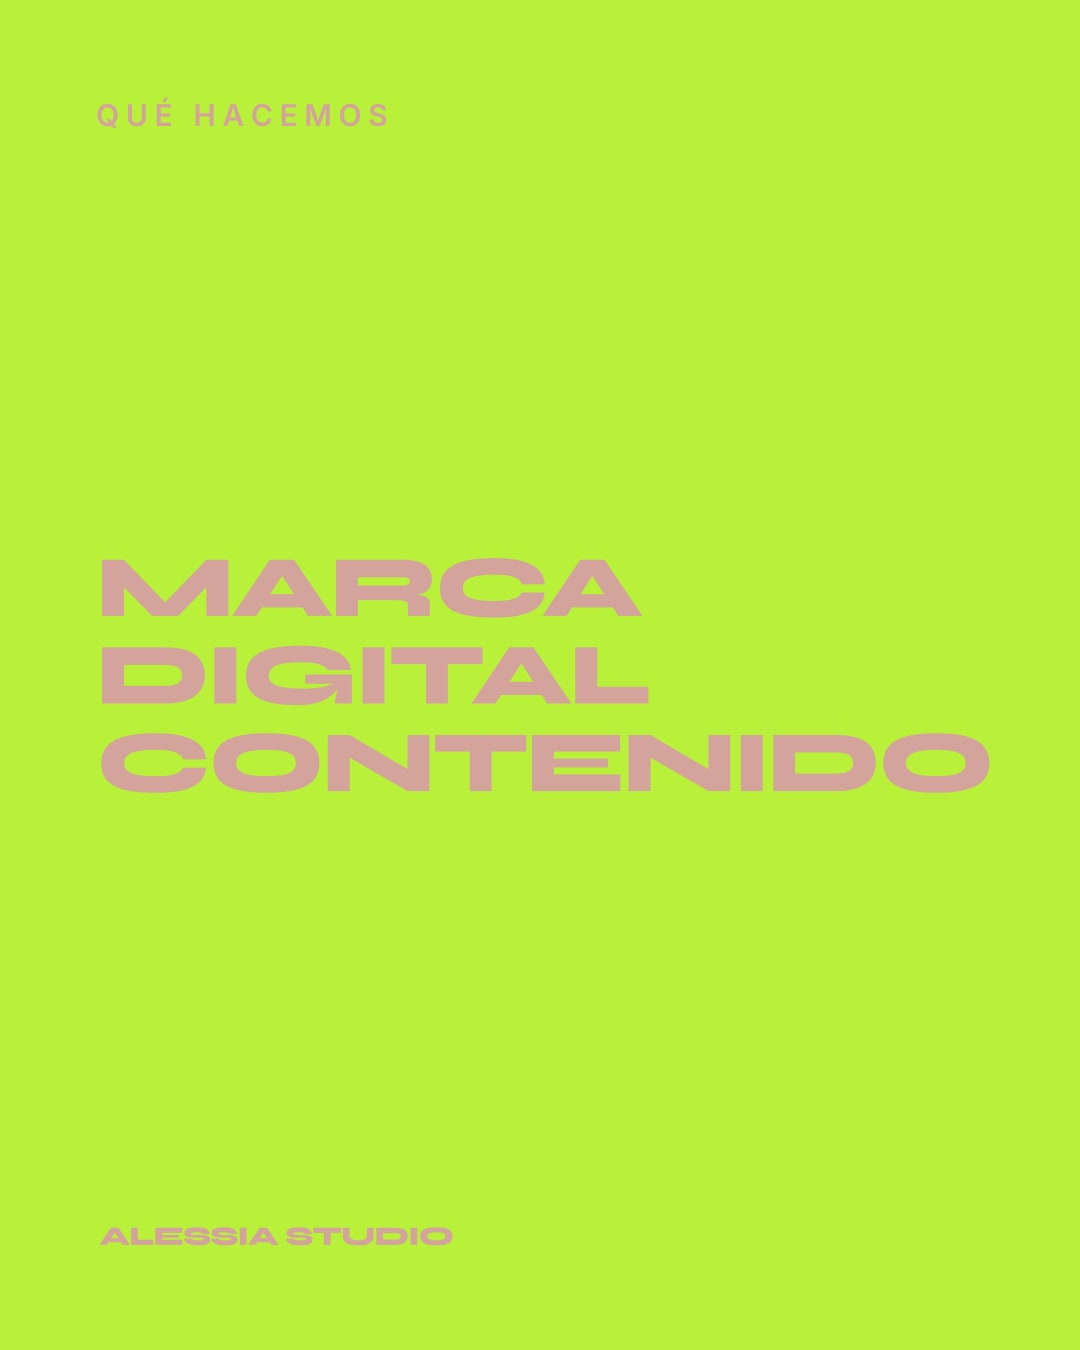
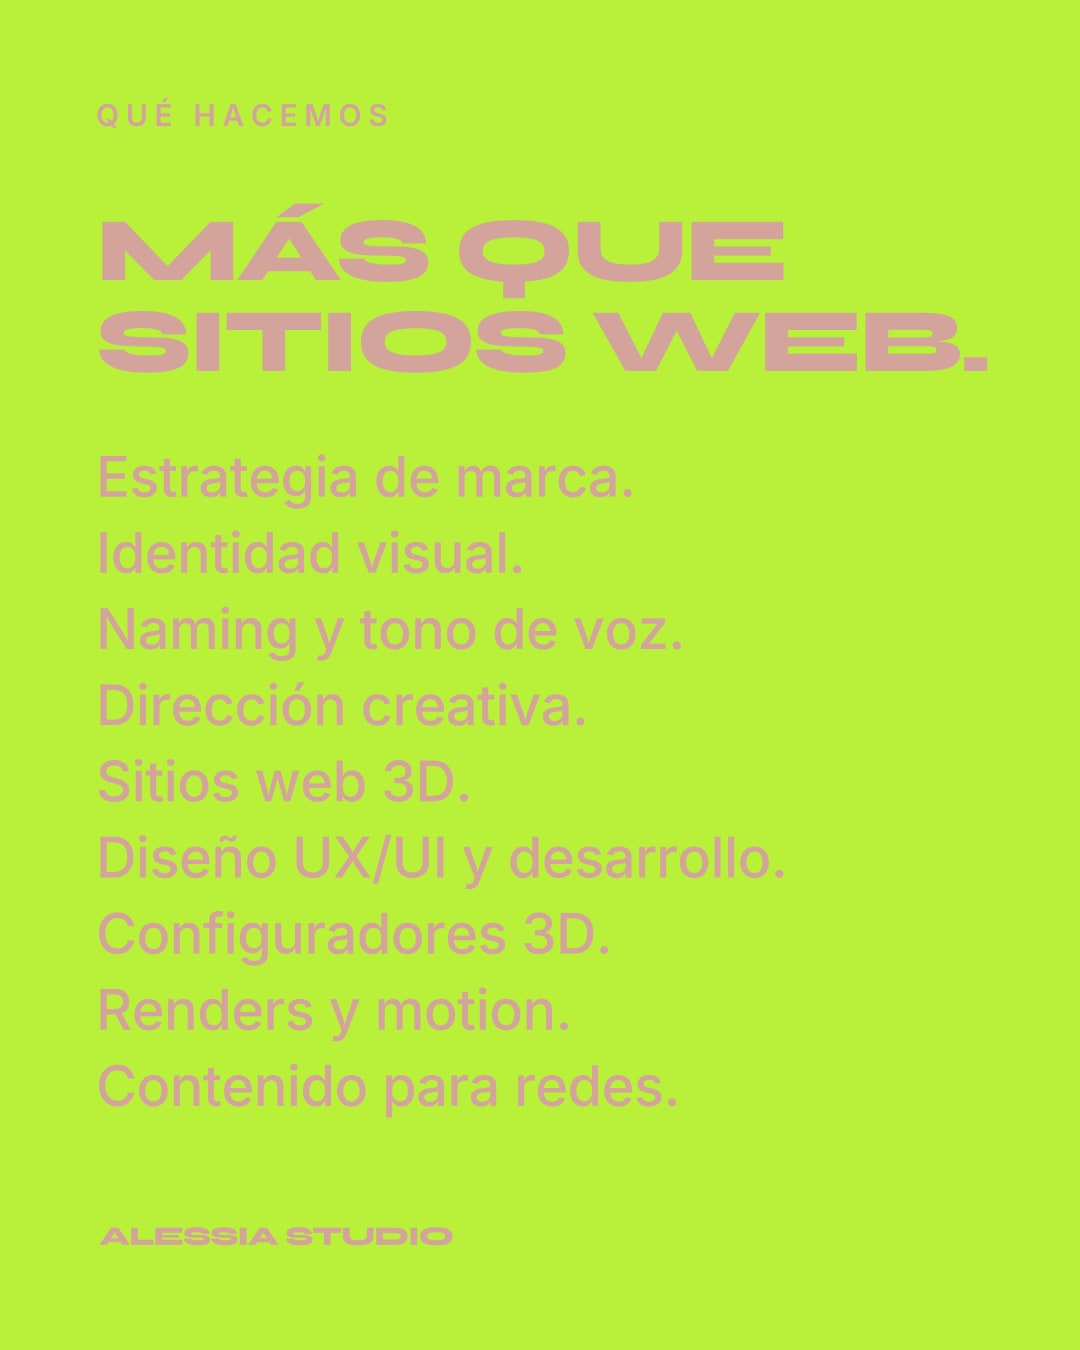
Marchio: post 8 "Más que sitios web." con l'elenco dei servizi
Ispirato alla struttura di un "about us": una frase d'apertura e i servizi
uno per riga (le voci di Qué hacemos del sito, accorciate), rosa su verde;
la frase sull'unico team va nella didascalia, come vuole il brief.

Claude-Session: https://claude.ai/code/session_01QuJDfzDVvdCMJCQg1EtV47

Changed region(s): [[0.0917, 0.3111, 0.9167, 0.84], [0.0917, 0.1244, 0.9167, 0.28]]

diff --git a/alessia-studio/brand/BRIEF-instagram.md b/alessia-studio/brand/BRIEF-instagram.md
@@ -84,7 +84,7 @@ grafiche si alternano a scacchiera (anteprima: `instagram/post/griglia.jpg`).
 | 5 | `05-el-fondo.jpg` | Al final del recorrido, un salto al mar: en el fondo, una escultura en 3D que se gira con el dedo, en tiempo real. |
 | 6 | `06-contacto.jpg` | ¿Tienes un lugar que construir? Escríbenos por WhatsApp: +39 346 175 8562. Trabajamos en remoto en español, italiano, inglés y portugués. |
 | 7 | `07-verde.jpg` | El verde de la casa: los sofás donde empieza el recorrido de nuestro sitio. |
-| 8 | `08-que-hacemos.jpg` | Marca, digital y contenido, del concepto a la publicación, con un solo equipo: cada proyecto cuidado como una obra de arquitectura. |
+| 8 | `08-que-hacemos.jpg` | Más que sitios web. Del concepto a la publicación, con un solo equipo: marca, sitio y contenido cuentan la misma historia. |
 | 9 | `09-la-casa.jpg` | Se entra por la ventana circular: abajo, los sofás verdes y la luz del lucernario. |
 
 Si rifanno con `node tools/ig-posts.mjs <cartella>` (vedi in cima al file).
